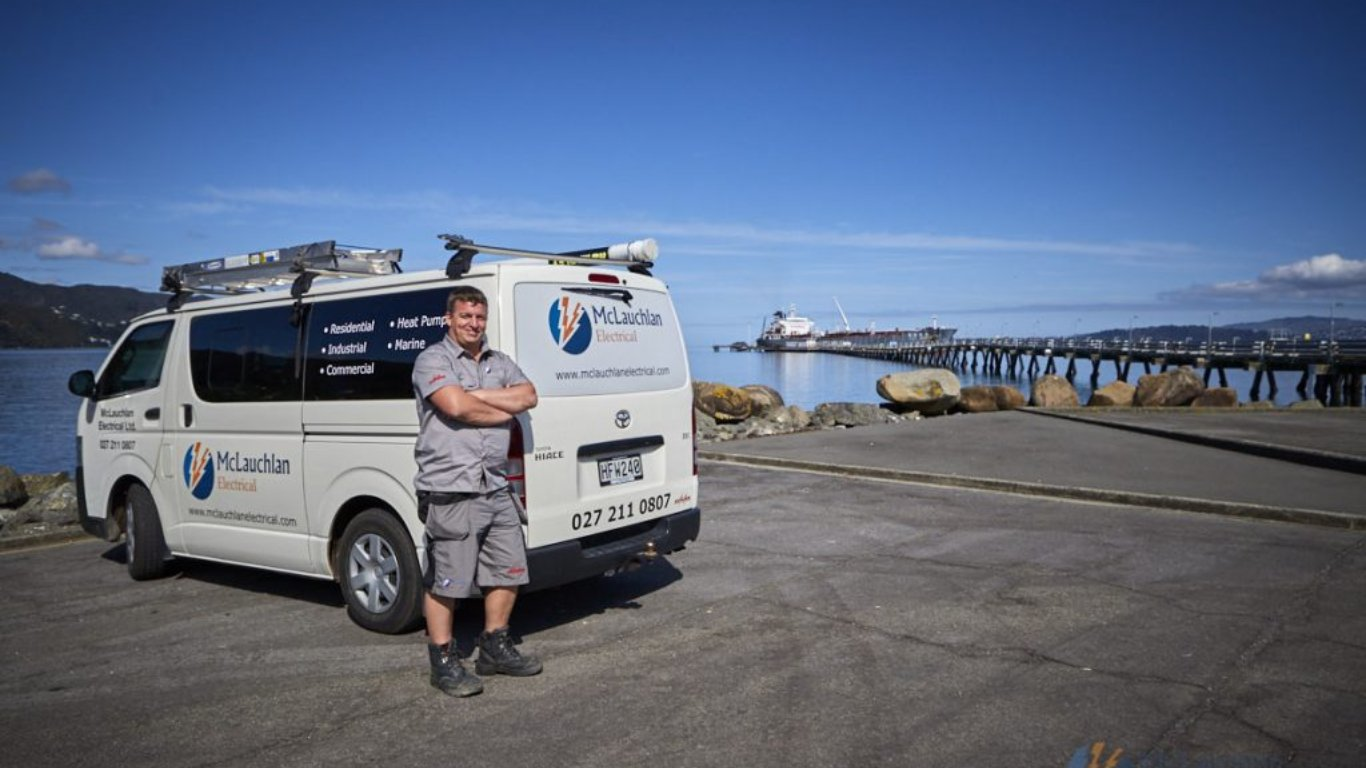
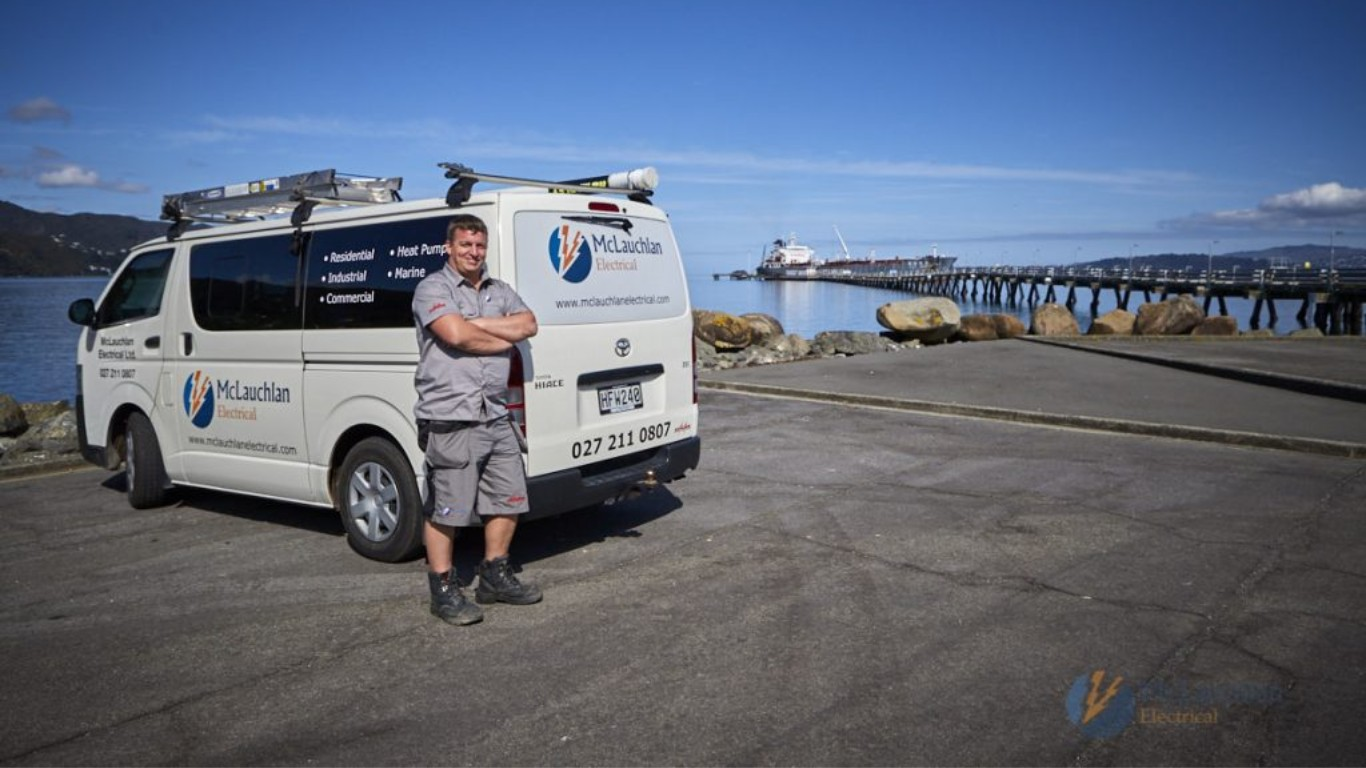
Tweaks to tailwind in layout-grid for gallery page

diff --git a/components/ui/layout-grid.tsx b/components/ui/layout-grid.tsx
@@ -26,10 +26,8 @@ export const LayoutGrid = ({ cards }: { cards: Card[] }) => {
     setSelected(null)
   }
 
-  // Maybe look at changing the grid-cols to 2 for mobile
-
   return (
-    <div className="w-full h-full p-6 grid grid-cols-2 md:grid-cols-4 2xl:grid-cols-3 max-w-7xl mx-auto gap-4 relative">
+    <div className="w-full h-full p-10 grid grid-cols-2 md:grid-cols-4 2xl:grid-cols-3 md:max-w-7xl 2xl:max-w-screen-2xl mx-auto gap-4 relative">
       {cards.map((card, i) => (
         <div key={i} className={cn(card.className, '')}>
           <motion.div
@@ -38,7 +36,7 @@ export const LayoutGrid = ({ cards }: { cards: Card[] }) => {
               card.className,
               'relative overflow-hidden',
               selected?.id === card.id
-                ? 'rounded-xl absolute inset-0 h-1/2 w-full md:w-1/2 m-auto z-50 flex justify-center items-center flex-wrap flex-col'
+                ? 'rounded-xl absolute inset-0 h-1/2 md:h-2/3 2xl:h-1/2 w-full md:w-1/2 2xl:w-2/3 m-auto z-50 flex justify-center items-center flex-wrap flex-col'
                 : lastSelected?.id === card.id
                 ? 'z-40 bg-black rounded-xl h-full w-full cursor-pointer'
                 : 'bg-black rounded-xl h-full w-full cursor-pointer'
@@ -67,11 +65,11 @@ const BlurImage = ({ card }: { card: Card }) => {
   return (
     <Image
       src={card.thumbnail}
-      height="2732"
-      width="1536"
+      height={768}
+      width={1366}
       onLoad={() => setLoaded(true)}
       className={cn(
-        'object-cover object-top absolute inset-0 h-full w-full transition duration-200',
+        'object-cover object-center absolute inset-0 h-full w-full transition duration-200',
         loaded ? 'blur-none' : 'blur-lg'
       )}
       alt="thumbnail"

diff --git a/app/gallery/page.tsx b/app/gallery/page.tsx
@@ -11,6 +11,8 @@ import gallery2 from '../../public/images/gallery/gallery-2.jpg'
 import gallery3 from '../../public/images/gallery/gallery-3.jpg'
 import gallery4 from '../../public/images/gallery/gallery-4.jpg'
 import gallery5 from '../../public/images/gallery/gallery-5.jpg'
+import gallery6 from '../../public/images/gallery/gallery-6.jpg'
+import gallery7 from '../../public/images/gallery/gallery-7.jpg'
 
 // LayoutGrid
 const cards = [
@@ -22,27 +24,37 @@ const cards = [
   {
     id: 2,
     className: 'col-span-1',
-    thumbnail: gallery1,
+    thumbnail: gallery3,
   },
   {
     id: 3,
     className: 'col-span-1',
-    thumbnail: gallery2,
+    thumbnail: gallery4,
   },
   {
     id: 4,
     className: 'md:col-span-2',
-    thumbnail: gallery3,
+    thumbnail: gallery1,
   },
   {
     id: 5,
     className: 'md:col-span-2',
-    thumbnail: gallery4,
+    thumbnail: gallery2,
   },
   {
     id: 6,
     className: 'col-span-1',
     thumbnail: gallery5,
+  },
+  {
+    id: 7,
+    className: 'col-span-1',
+    thumbnail: gallery6,
+  },
+  {
+    id: 8,
+    className: 'md:col-span-2',
+    thumbnail: gallery7,
   },
 ]
 
